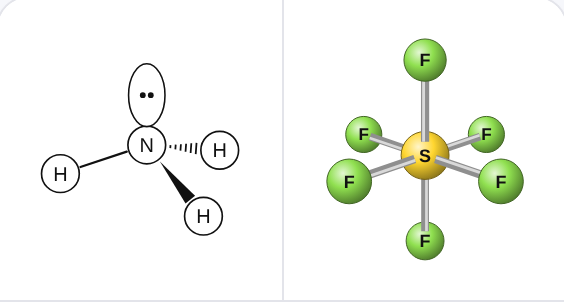
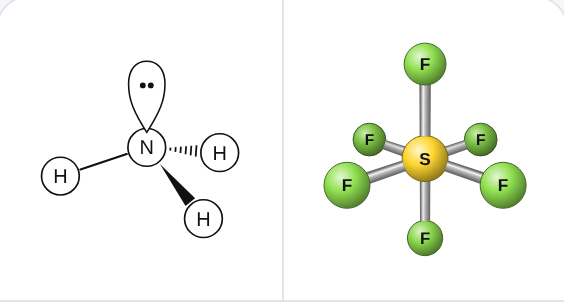
Chemistry Figures: VSEPR Shapes: shaded sticks, depth shading, and pointed lone pairs drawn flat on the central atom

Changed region(s): [[0.5727, 0.1192, 0.9344, 0.8642], [0.0603, 0.1788, 0.422, 0.8046]]

diff --git a/apps/chemistry/src/lib/generators/vsepr-shapes/layout.ts b/apps/chemistry/src/lib/generators/vsepr-shapes/layout.ts
@@ -23,9 +23,21 @@ export const OUT_OF_PAGE = 0.42
 export type Point = [number, number]
 
 export type Piece =
-  | { kind: 'atom'; z: number; x: number; y: number; r: number; element: string; central: boolean }
-  | { kind: 'bond'; z: number; from: Point; to: Point; order: number; depth: 'plane' | 'wedge' | 'dash'; width: number }
-  | { kind: 'lobe'; z: number; x: number; y: number; rx: number; ry: number; angle: number; dots: Point[] }
+  | {
+      kind: 'atom'; z: number; x: number; y: number; r: number; element: string; central: boolean
+      /** how far toward the viewer, from -1 (straight back) to 1, for fading the far ones */
+      near: number
+    }
+  | { kind: 'bond'; z: number; from: Point; to: Point; order: number; depth: 'plane' | 'wedge' | 'dash'; width: number; balls?: [number, number, number][]
+      /** ball-and-stick: how big the stick is drawn at each end, so one going back narrows, and how near each end is (-1 to 1) */
+      ends?: { size: [number, number]; near: [number, number] }
+    }
+  | {
+      /** a balloon, pointed at the central atom: its tip on the atom, its
+       *  length and half-width as seen, and its round end's middle (x, y) with
+       *  half its length (rx) and its half-width (ry) for keeping labels off it */
+      kind: 'lobe'; z: number; tip: Point; length: number; x: number; y: number; rx: number; ry: number; angle: number; dots: Point[]
+    }
   | { kind: 'dots'; z: number; dots: Point[] }
 
 export interface Arc {
@@ -62,7 +74,7 @@ const LOOKS: Record<VseprSettings['style'], Look> = {
     bond: 96,
     schematic: false,
     radius: (el) => (el === 'H' ? 14 : ELEMENTS[el].period <= 2 ? 20 : 24),
-    perspective: 1 / 600,
+    perspective: 1 / 380,
   },
 }
 
@@ -104,6 +116,45 @@ function outerPairDirs(away: Vec, n: number): Vec[] {
   })
 }
 
+/** The page directions (as angles) to draw lone pairs in: each the way it
+ *  points as seen, then pushed round until it is at least 40° from every bond
+ *  and 60° from every other lone pair. One seen end on starts in the widest gap
+ *  between the bonds. */
+export function flatAngles(lone: Vec[], bonds: Vec[]): number[] {
+  const GAP = 40 * deg
+  const PAIR_GAP = 60 * deg
+  const fixed = bonds.filter((b) => Math.hypot(b[0], b[1]) > 0.15).map((b) => Math.atan2(b[1], b[0]))
+  const diff = (a: number, b: number) => Math.atan2(Math.sin(a - b), Math.cos(a - b))
+  const widestGap = () => {
+    const all = [...fixed].sort((a, b) => a - b)
+    if (all.length === 0) return -Math.PI / 2
+    let best = all[0] + Math.PI
+    let size = -1
+    all.forEach((a, i) => {
+      const next = i + 1 < all.length ? all[i + 1] : all[0] + 2 * Math.PI
+      if (next - a > size) [size, best] = [next - a, (a + next) / 2]
+    })
+    return best
+  }
+  const angles = lone.map((u, i) => (Math.hypot(u[0], u[1]) > 0.15 ? Math.atan2(u[1], u[0]) : widestGap() + i * PAIR_GAP))
+  for (let round = 0; round < 60; round++) {
+    angles.forEach((a, i) => {
+      let push = 0
+      for (const f of fixed) {
+        const d = diff(a, f)
+        if (Math.abs(d) < GAP) push += (d >= 0 ? 1 : -1) * (GAP - Math.abs(d))
+      }
+      angles.forEach((o, j) => {
+        if (j === i) return
+        const d = diff(a, o)
+        if (Math.abs(d) < PAIR_GAP) push += (d > 0 || (d === 0 && i > j) ? 1 : -1) * ((PAIR_GAP - Math.abs(d)) / 2)
+      })
+      angles[i] = a + push * 0.5
+    })
+  }
+  return angles
+}
+
 export function layoutFigure(s: VseprSettings, structure: Structure, shape: VseprShape): Layout {
   const look = LOOKS[s.style]
   const view = (v: Vec) => turn(v, s.yaw, s.pitch)
@@ -125,7 +176,7 @@ export function layoutFigure(s: VseprSettings, structure: Structure, shape: Vsep
   const pieces: Piece[] = []
   const centralEl = structure.atoms[shape.central].element
   const rc = look.radius(centralEl, true)
-  pieces.push({ kind: 'atom', z: 0, x: 0, y: 0, r: rc, element: centralEl, central: true })
+  pieces.push({ kind: 'atom', z: 0, x: 0, y: 0, r: rc, element: centralEl, central: true, near: 0 })
 
   /** Two dots (or one) side by side across a direction, centered on a point. */
   const pairAt = (at: Point, along: Point, electrons: number): Point[] => {
@@ -145,13 +196,18 @@ export function layoutFigure(s: VseprSettings, structure: Structure, shape: Vsep
     const r = look.radius(el, false) * sizeAt(centerZ)
     const c = scale(u, look.bond)
     const [x, y] = project(c)
-    pieces.push({ kind: 'atom', z: centerZ, x, y, r, element: el, central: false })
+    pieces.push({ kind: 'atom', z: centerZ, x, y, r, element: el, central: false, near: u[2] })
 
-    // From the central atom's surface to the outer atom's, as seen.
-    const from = project(scale(u, s.style === 'ball-and-stick' ? rc * 0.6 : 0))
-    const to = project(scale(u, look.bond - (s.style === 'ball-and-stick' ? r * 0.6 : 0)))
+    // Wedge-and-dash: from the central atom to the outer one, trimmed when
+    // drawn. Ball-and-stick: from center to center, with both balls' discs
+    // (x, y, r) masked off, so the stick joins each at its outline.
+    const ball = s.style === 'ball-and-stick'
+    const from = project([0, 0, 0])
+    const to: Point = [x, y]
     const depth = u[2] > OUT_OF_PAGE ? 'wedge' : u[2] < -OUT_OF_PAGE ? 'dash' : 'plane'
-    pieces.push({ kind: 'bond', z: centerZ / 2, from, to, order: g.order, depth, width: sizeAt(centerZ / 2) })
+    const balls: [number, number, number][] | undefined = ball ? [[0, 0, rc], [x, y, r]] : undefined
+    const ends = ball ? { size: [sizeAt(0), sizeAt(centerZ)] as [number, number], near: [0, u[2]] as [number, number] } : undefined
+    pieces.push({ kind: 'bond', z: centerZ / 2, from, to, order: g.order, depth, width: sizeAt(centerZ / 2), balls, ends })
 
     if (s.outerPairs) {
       const lone = structure.atoms[g.atom].lone
@@ -165,33 +221,32 @@ export function layoutFigure(s: VseprSettings, structure: Structure, shape: Vsep
     }
   }
 
-  if (s.lonePairs !== 'none')
-    for (const g of shape.lone) {
-      const u = view(g.dir)
-      const along: Point = [u[0], u[1]]
+  // The central atom's lone pairs are drawn flat on the page and on top of
+  // the atom, never behind it or end on, each pointing the way it does as
+  // seen, fanned out so it is clear of the bonds and the other pairs.
+  if (s.lonePairs !== 'none') {
+    const angles = flatAngles(
+      shape.lone.map((g) => view(g.dir)),
+      shape.atoms.map((g) => view(g.dir)),
+    )
+    shape.lone.forEach((g, i) => {
+      const dir: Point = [Math.cos(angles[i]), Math.sin(angles[i])]
+      const z = rc + 1
       if (s.lonePairs === 'dots') {
-        const p = scale(u, rc + 8)
-        pieces.push({ kind: 'dots', z: p[2] + (u[2] > 0 ? rc : 0), dots: pairAt(project(p), along, g.electrons) })
-        continue
+        const at: Point = [dir[0] * (rc + 8), dir[1] * (rc + 8)]
+        pieces.push({ kind: 'dots', z, dots: pairAt(at, dir, g.electrons) })
+        return
       }
-      // A balloon: an ellipsoid along the lone pair, seen from the front.
-      const long = look.bond * 0.36
+      // A balloon pointed at the central atom: its tip just inside the
+      // atom's outline, so it always touches it, swelling to a round end.
+      const length = look.bond * 0.78
       const wide = look.bond * 0.2
-      const mid = scale(u, rc * 0.9 + long)
-      const [x, y] = project(mid)
-      const m = Math.hypot(u[0], u[1])
-      const k = sizeAt(mid[2])
-      pieces.push({
-        kind: 'lobe',
-        z: mid[2] + (u[2] > 0 ? rc : 0),
-        x,
-        y,
-        rx: Math.max(wide, Math.hypot(long * m, wide * Math.sqrt(1 - Math.min(1, m * m)))) * k,
-        ry: wide * k,
-        angle: m < 0.05 ? 0 : Math.atan2(u[1], u[0]) / deg,
-        dots: pairAt([x, y], along, g.electrons),
-      })
-    }
+      const tip: Point = [dir[0] * rc * 0.8, dir[1] * rc * 0.8]
+      const at = (t: number): Point => [tip[0] + dir[0] * length * t, tip[1] + dir[1] * length * t]
+      const [x, y] = at(0.66)
+      pieces.push({ kind: 'lobe', z, tip, length, x, y, rx: length * 0.34, ry: wide, angle: angles[i] / deg, dots: pairAt([x, y], dir, g.electrons) })
+    })
+  }
 
   pieces.sort((a, b) => a.z - b.z)
 
@@ -310,10 +365,11 @@ export function layoutFigure(s: VseprSettings, structure: Structure, shape: Vsep
       const [x, y] = move([p.x, p.y])
       return { ...p, x, y }
     }
-    if (p.kind === 'bond') return { ...p, from: move(p.from), to: move(p.to) }
+    if (p.kind === 'bond')
+      return { ...p, from: move(p.from), to: move(p.to), balls: p.balls?.map(([x, y, r]): [number, number, number] => [...move([x, y]), r]) }
     if (p.kind === 'lobe') {
       const [x, y] = move([p.x, p.y])
-      return { ...p, x, y, dots: p.dots.map(move) }
+      return { ...p, x, y, tip: move(p.tip), dots: p.dots.map(move) }
     }
     return { ...p, dots: p.dots.map(move) }
   })

diff --git a/apps/chemistry/src/lib/generators/vsepr-shapes/VseprFigure.svelte b/apps/chemistry/src/lib/generators/vsepr-shapes/VseprFigure.svelte
@@ -17,15 +17,23 @@
   let { settings: s, found, svg = $bindable(), onturn }: Props = $props()
 
   const INK = '#111'
+  /** The sticks' grays: their outline, the lit stripe and the body. */
+  const STICK = { edge: '#6b6b6b', light: '#f4f4f4', mid: '#b4b4b4' }
   const ball = $derived(s.style === 'ball-and-stick')
   /** The view while the figure is being dragged, kept here until it's let go
    *  so the page address isn't rewritten on every move. */
   let live = $state<{ yaw: number; pitch: number } | null>(null)
   const layout = $derived(found.ok ? layoutFigure(live ? { ...s, ...live } : s, found.structure, found.shape) : undefined)
-  const colors = $derived(
-    layout && ball ? [...new Set(layout.pieces.flatMap((p) => (p.kind === 'atom' ? [atomColor(p.element, s.grayscale)] : [])))] : [],
+  /** Each atom color with each depth it's shaded at, one gradient apiece. */
+  const shadings = $derived(
+    layout && ball
+      ? [...new Set(layout.pieces.flatMap((p) => (p.kind === 'atom' ? [`${atomColor(p.element, s.grayscale)}:${shadow(p.near)}`] : [])))].map((k) => {
+          const [c, d] = k.split(':')
+          return { c, d: Number(d) }
+        })
+      : [],
   )
-  const gradientId = (hex: string) => `vsepr-${hex.slice(1)}`
+  const gradientId = (hex: string, d: number) => `vsepr-${hex.slice(1)}-${Math.round(d * 100)}`
 
   const label = $derived.by(() => {
     if (!found.ok) return 'No VSEPR shape'
@@ -80,6 +88,32 @@
     }).join(' ')
   }
 
+  /** The side of a stick facing the light, top left, as the balls' highlight is: `-n` points to it. */
+  const lit = (n: Point): Point => (n[0] + n[1] > 0 ? n : [-n[0], -n[1]])
+
+  /** A stick from `a` to `b`, `wa` wide at `a` and `wb` at `b`. */
+  function stick(a: Point, b: Point, n: Point, wa: number, wb: number) {
+    const p = [shifted(a, n, wa / 2), shifted(b, n, wb / 2), shifted(b, n, -wb / 2), shifted(a, n, -wa / 2)]
+    return `M${p.map(([x, y]) => `${x} ${y}`).join(' L')} Z`
+  }
+
+  /** How much a part of the model is darkened, as if further from the light:
+   *  none at the central atom's depth or nearer, up to 0.2 straight back, in
+   *  steps of 0.05 so atoms share gradients. */
+  const shadow = (near: number) => (near < 0 ? Math.round(Math.min(0.2, -near * 0.2) * 20) / 20 : 0)
+
+  /** A lone pair's balloon along +x: pointed at its tip (the origin), widest
+   *  two thirds along, round at the end. */
+  function balloon(L: number, h: number) {
+    const f = (n: number) => n.toFixed(1)
+    return (
+      `M0 0 C${f(L * 0.28)} ${f(-h * 0.7)} ${f(L * 0.45)} ${f(-h)} ${f(L * 0.68)} ${f(-h)} ` +
+      `C${f(L * 0.9)} ${f(-h)} ${f(L)} ${f(-h * 0.55)} ${f(L)} 0 ` +
+      `C${f(L)} ${f(h * 0.55)} ${f(L * 0.9)} ${f(h)} ${f(L * 0.68)} ${f(h)} ` +
+      `C${f(L * 0.45)} ${f(h)} ${f(L * 0.28)} ${f(h * 0.7)} 0 0 Z`
+    )
+  }
+
   const shifted = (p: Point, n: Point, k: number): Point => [p[0] + n[0] * k, p[1] + n[1] * k]
 
   // Dragging turns the molecule: across turns it round, up and down tips it.
@@ -107,13 +141,14 @@
 
 <FigureFrame bind:svg width={layout?.width ?? 320} height={layout?.height ?? 120} {label} title={s.titleMode === 'text' ? s.title : ''} answerKey={layout?.key.join('\n') ?? ''}>
   {#if layout}
-    {#if colors.length}
+    {#if shadings.length}
       <defs>
-        {#each colors as c (c)}
-          <radialGradient id={gradientId(c)} cx="0.36" cy="0.32" r="0.72">
-            <stop offset="0" stop-color={shade(c, 0.75)} />
-            <stop offset="0.45" stop-color={c} />
-            <stop offset="1" stop-color={shade(c, -0.45)} />
+        {#each shadings as { c, d } (gradientId(c, d))}
+          <!-- lit from the top left; a farther atom is further from the light, so darker with a dimmer highlight -->
+          <radialGradient id={gradientId(c, d)} cx="0.36" cy="0.32" r="0.72">
+            <stop offset="0" stop-color={shade(c, 0.75 * (1 - d * 2))} />
+            <stop offset="0.45" stop-color={shade(c, -d)} />
+            <stop offset="1" stop-color={shade(c, -0.45 - d * 0.6)} />
           </radialGradient>
         {/each}
       </defs>
@@ -137,7 +172,7 @@
         {#if p.kind === 'atom'}
           {#if ball}
             {@const fill = atomColor(p.element, s.grayscale)}
-            <circle cx={p.x} cy={p.y} r={p.r} fill="url(#{gradientId(fill)})" stroke={shade(fill, -0.55)} stroke-width="1" />
+            <circle cx={p.x} cy={p.y} r={p.r} fill="url(#{gradientId(fill, shadow(p.near))})" stroke={shade(fill, -0.55 - shadow(p.near) * 0.5)} stroke-width="1" />
             {#if s.symbols}
               <text
                 x={p.x}
@@ -146,7 +181,7 @@
                 text-anchor="middle"
                 font-size={Math.min(SYMBOL_FONT, p.r * 0.95)}
                 font-weight="700"
-                fill={lightness(fill) > 0.55 ? INK : '#fff'}>{p.element}</text
+                fill={lightness(shade(fill, -shadow(p.near))) > 0.55 ? INK : '#fff'}>{p.element}</text
               >
             {/if}
           {:else}
@@ -155,14 +190,41 @@
           {/if}
         {:else if p.kind === 'bond'}
           {#if ball}
-            {@const n = across(p.from, p.to)}
-            {@const w = (p.order === 1 ? 8 : p.order === 2 ? 5.5 : 4.2) * p.width}
-            {#each offsets(p.order, w + 2.5) as k (k)}
+            {@const n = lit(across(p.from, p.to))}
+            {@const w = (p.order === 1 ? 10 : p.order === 2 ? 7 : 5.5) * p.width}
+            <mask id="vsepr-stick-mask-{i}" maskUnits="userSpaceOnUse" x={-layout.width} y={-layout.height} width={layout.width * 3} height={layout.height * 3}>
+              <rect x={-layout.width} y={-layout.height} width={layout.width * 3} height={layout.height * 3} fill="#fff" />
+              {#each p.balls ?? [] as [x, y, r], j (j)}<circle cx={x} cy={y} r={r - 0.5} fill="#000" />{/each}
+            </mask>
+            <g mask="url(#vsepr-stick-mask-{i})">
+            {#each offsets(p.order, w + 4) as k, j (k)}
               {@const a = shifted(p.from, n, k)}
               {@const b = shifted(p.to, n, k)}
-              <line x1={a[0]} y1={a[1]} x2={b[0]} y2={b[1]} stroke={s.grayscale ? '#8a8a8a' : '#8f8f8f'} stroke-width={w} />
-              <line x1={a[0]} y1={a[1]} x2={b[0]} y2={b[1]} stroke="#d9d9d9" stroke-width={w * 0.35} transform="translate({-n[0] * w * 0.18} {-n[1] * w * 0.18})" />
+              {@const [sa, sb] = p.ends?.size ?? [1, 1]}
+              {@const [na, nb] = p.ends?.near ?? [0, 0]}
+              {@const wa = (w / p.width) * sa}
+              {@const wb = (w / p.width) * sb}
+              {@const top = shifted(a, n, -wa / 2)}
+              {@const bottom = shifted(a, n, wa / 2)}
+              <!-- a cylinder: shaded across its width, lit from the top left as the balls are, narrowing as it goes back -->
+              <linearGradient id="vsepr-stick-{i}-{j}" gradientUnits="userSpaceOnUse" x1={top[0]} y1={top[1]} x2={bottom[0]} y2={bottom[1]}>
+                <stop offset="0" stop-color={STICK.edge} />
+                <stop offset="0.3" stop-color={STICK.light} />
+                <stop offset="0.55" stop-color={STICK.mid} />
+                <stop offset="1" stop-color={STICK.edge} />
+              </linearGradient>
+              <path d={stick(a, b, n, wa + 1.2, wb + 1.2)} fill={STICK.edge} />
+              <path d={stick(a, b, n, wa, wb)} fill="url(#vsepr-stick-{i}-{j})" />
+              {#if shadow(na) > 0 || shadow(nb) > 0}
+                <!-- darkening as it goes back, as the far atoms do -->
+                <linearGradient id="vsepr-shadow-{i}-{j}" gradientUnits="userSpaceOnUse" x1={a[0]} y1={a[1]} x2={b[0]} y2={b[1]}>
+                  <stop offset="0" stop-color="#000" stop-opacity={shadow(na)} />
+                  <stop offset="1" stop-color="#000" stop-opacity={shadow(nb)} />
+                </linearGradient>
+                <path d={stick(a, b, n, wa, wb)} fill="url(#vsepr-shadow-{i}-{j})" />
+              {/if}
             {/each}
+            </g>
           {:else}
             {@const ends = trimmed(p, 17)}
             {#if ends}
@@ -191,12 +253,9 @@
             {/if}
           {/if}
         {:else if p.kind === 'lobe'}
-          <ellipse
-            cx={p.x}
-            cy={p.y}
-            rx={p.rx}
-            ry={p.ry}
-            transform="rotate({p.angle} {p.x} {p.y})"
+          <path
+            d={balloon(p.length, p.ry)}
+            transform="translate({p.tip[0]} {p.tip[1]}) rotate({p.angle})"
             fill={ball ? (s.grayscale ? '#ececec' : '#e3ebf7') : '#fff'}
             fill-opacity={ball ? 0.9 : 1}
             stroke={ball ? (s.grayscale ? '#8a8a8a' : '#7f93b8') : INK}

diff --git a/apps/chemistry/src/lib/examples/examples.ts b/apps/chemistry/src/lib/examples/examples.ts
@@ -947,7 +947,7 @@ export const EXAMPLES: Example[] = [
       title: 'VSEPR shape of H₂O (water): bent, with its bond angle',
       alt: 'Water drawn wedge-and-dash: an oxygen with two lone pair lobes and two hydrogens below it, with the H–O–H angle marked 104.5°',
       caption:
-        'The VSEPR shape of water, H₂O: bent, with two lone pairs on the oxygen pointing toward and away from the viewer. The H–O–H angle is labeled 104.5°, less than the tetrahedral 109.5° because the lone pairs push the bonds closer.',
+        'The VSEPR shape of water, H₂O: bent, with two lone pairs on the oxygen drawn above it. The H–O–H angle is labeled 104.5°, less than the tetrahedral 109.5° because the lone pairs push the bonds closer.',
       settings: { formula: 'H2O', bondAngles: true, angles: '104.5°' },
     },
     {
